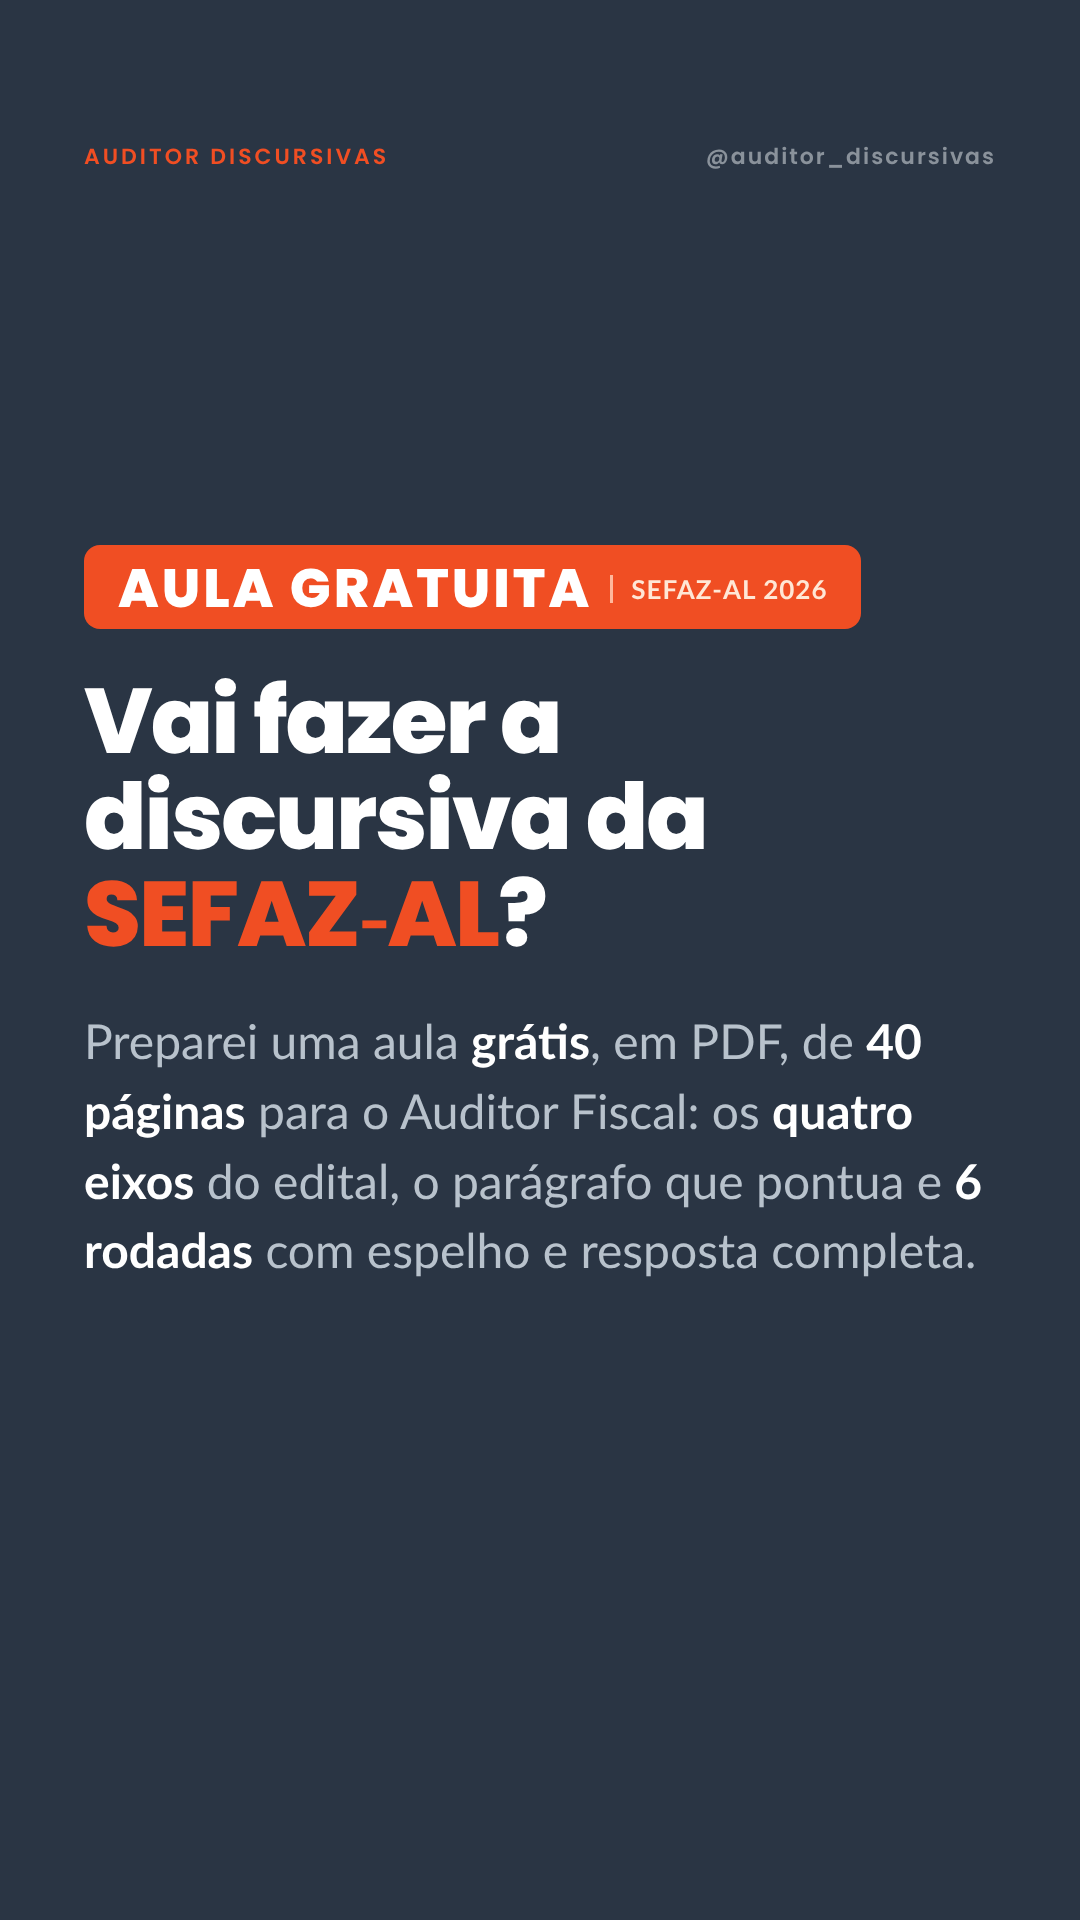
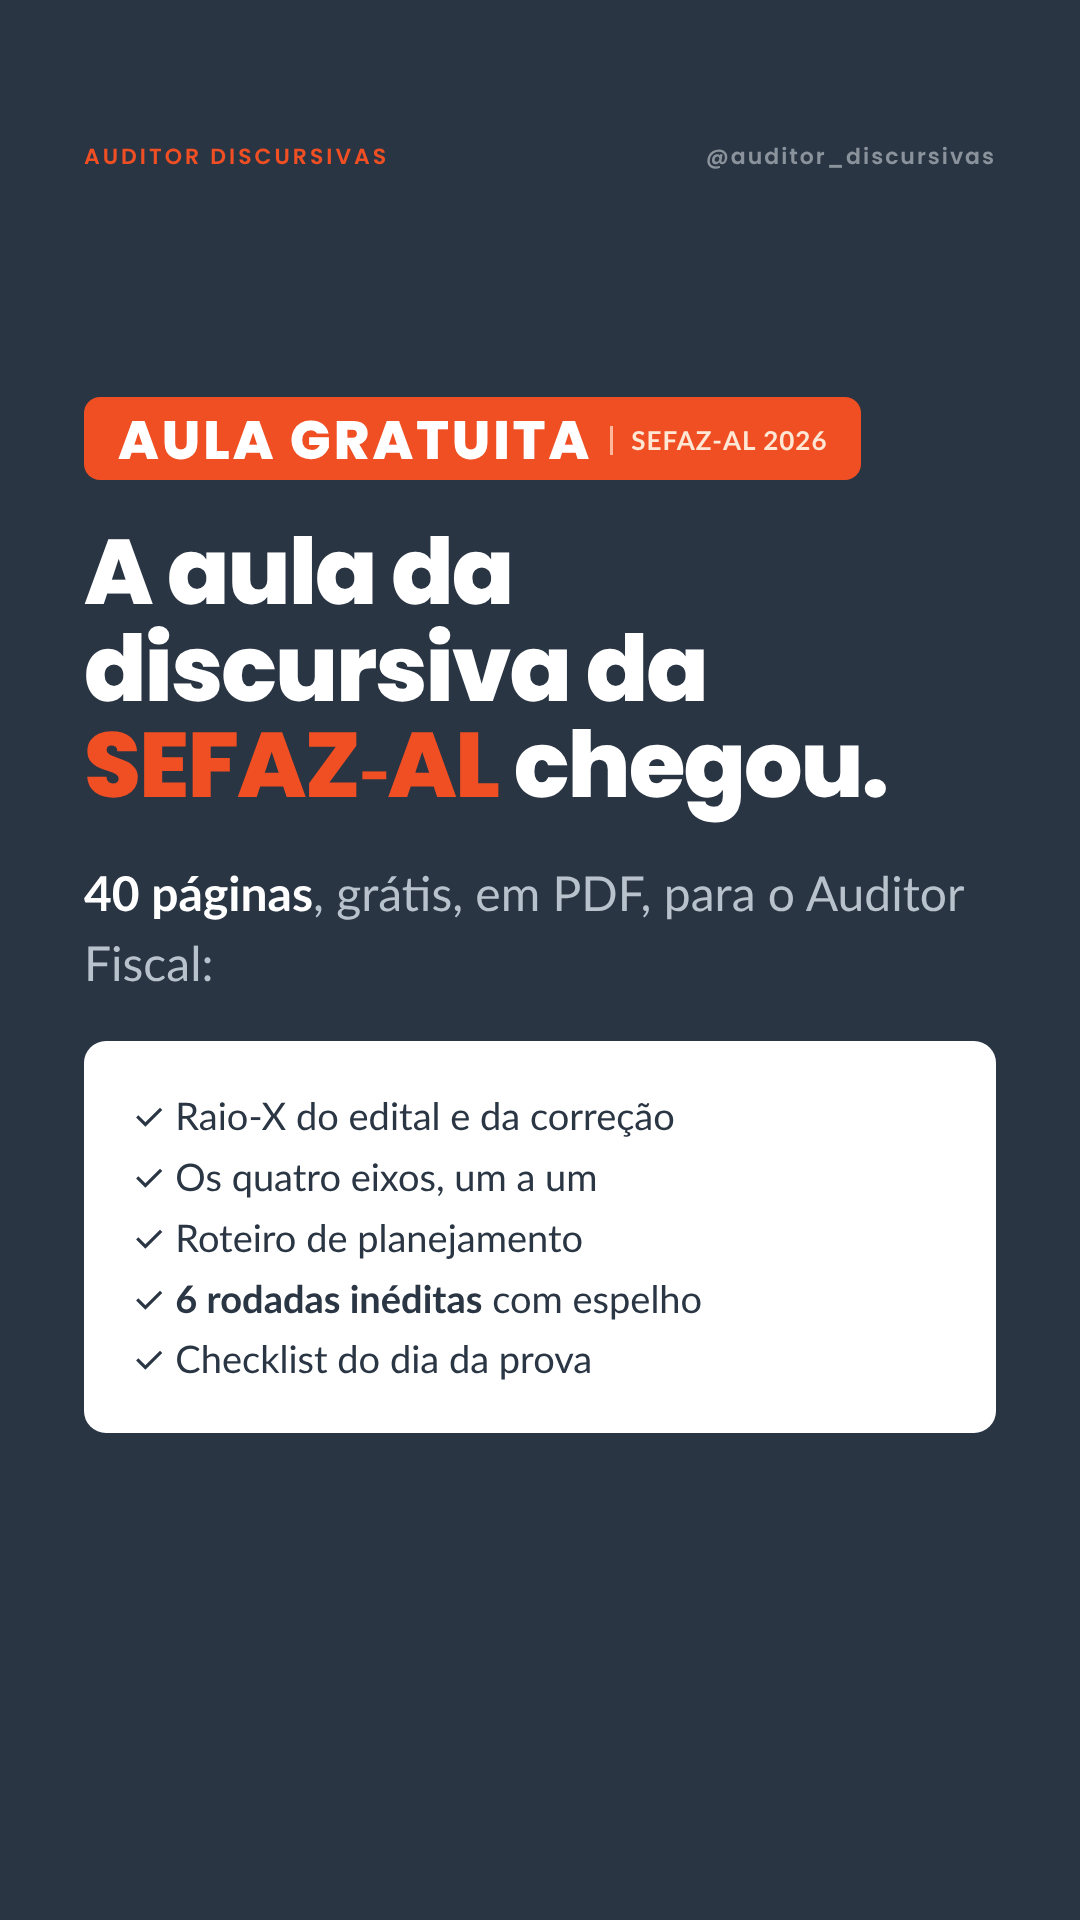
SEFAZ-AL: stories focados na aula
Claude-Session: https://claude.ai/code/session_01NnKHPQEUmMZq6kcsnTUKuD

Changed region(s): [[0.0611, 0.2812, 0.9472, 0.75], [0.0611, 0.1875, 0.7944, 0.25]]

diff --git a/fontes/campanha-sefazal/stories_sefazal.html b/fontes/campanha-sefazal/stories_sefazal.html
@@ -91,22 +91,23 @@ body{background:#E8EBEE;font-family:'Lato',sans-serif;padding:40px;display:flex;
 <div class="story" data-n="st01">
   <div class="st-marca"><div class="marca">Auditor Discursivas</div><div class="contador">@auditor_discursivas</div></div>
   <div class="st-in"><div><span class="tag">Aula gratuita<small>SEFAZ-AL 2026</small></span></div>
-<div class="st-h">Vai fazer a discursiva da <em style="white-space:nowrap">SEFAZ&#8209;AL</em>?</div>
-<div class="st-p">Preparei uma aula <b>grátis</b>, em PDF, de <b>40 páginas</b> para o Auditor Fiscal: os <b>quatro eixos</b> do edital, o parágrafo que pontua e <b>6 rodadas</b> com espelho e resposta completa.</div></div>
+<div class="st-h">A aula da discursiva da <em style="white-space:nowrap">SEFAZ&#8209;AL</em> chegou.</div>
+<div class="st-p"><b>40 páginas</b>, grátis, em PDF, para o Auditor Fiscal:</div>
+<div class="st-box"><div class="r" style="margin-top:0;line-height:1.6">✓ Raio-X do edital e da correção<br>✓ Os quatro eixos, um a um<br>✓ Roteiro de planejamento<br>✓ <b>6 rodadas inéditas</b> com espelho<br>✓ Checklist do dia da prova</div></div></div>
 </div>
 <div class="story" data-n="st02">
+  <div class="st-marca"><div class="marca">Auditor Discursivas</div><div class="contador">@auditor_discursivas</div></div>
+  <div class="st-in"><div class="eyebrow">Como cada rodada funciona</div>
+<div class="st-h">Você escreve. A aula <em>corrige</em>.</div>
+<div class="st-box"><div class="r" style="margin-top:0;line-height:1.6"><b>1.</b> Questão inédita, 60 min<br><b>2.</b> Orientação de solução<br><b>3.</b> Padrão de resposta e espelho<br><b>4.</b> Resposta definitiva, linha a linha<br><b>5.</b> Armadilhas e dicas</div></div>
+<div class="st-p">Seis rodadas nos quatro eixos: <b>dados, auditoria fiscal, finanças e reforma tributária</b>.</div></div>
+</div>
+<div class="story" data-n="st03">
   <div class="st-marca"><div class="marca">Auditor Discursivas</div><div class="contador">@auditor_discursivas</div></div>
   <div class="st-in"><div class="st-h">É só mandar no <em>direct</em></div>
 <div><span class="kw">SEFAZAL</span></div>
 <div class="st-p">Manda <b>SEFAZAL</b> numa mensagem para o <b>@auditor_discursivas</b> e a <b>aula gratuita</b> chega na hora.</div>
 <div class="st-box"><div class="q">Prefere comentar?</div><div class="r">Comente <b>SEFAZAL</b> no post da aula da SEFAZ-AL que eu também te mando.</div></div></div>
-</div>
-<div class="story" data-n="st03">
-  <div class="st-marca"><div class="marca">Auditor Discursivas</div><div class="contador">@auditor_discursivas</div></div>
-  <div class="st-in"><div class="eyebrow">Você sabia?</div>
-<div class="st-h">Você faz a discursiva <em>sem saber</em> se passou.</div>
-<div class="st-p">A objetiva é em <b>20/12</b>, a discursiva em <b>10/01</b> e o resultado final da objetiva só sai em <b>05/02</b>. Quem treina discursiva desde já sai na frente.</div>
-<div class="st-box"><div class="q">Mande SEFAZAL no direct</div><div class="r">e receba grátis a aula com as 6 rodadas.</div></div></div>
 </div>
 </body>
 </html>

diff --git a/fontes/campanha-sefazal/gerar.py b/fontes/campanha-sefazal/gerar.py
@@ -61,17 +61,18 @@ c += '</body>\n</html>\n'
 (OUT / 'carrossel_sefazal.html').write_text(c, encoding='utf-8')
 
 st = head('Campanha SEFAZ-AL 2026 — stories')
-st += story(1, '''<div><span class="tag">Aula gratuita<small>SEFAZ-AL 2026</small></span></div>
-<div class="st-h">Vai fazer a discursiva da <em style="white-space:nowrap">SEFAZ&#8209;AL</em>?</div>
-<div class="st-p">Preparei uma aula <b>grátis</b>, em PDF, de <b>40 páginas</b> para o Auditor Fiscal: os <b>quatro eixos</b> do edital, o parágrafo que pontua e <b>6 rodadas</b> com espelho e resposta completa.</div>''')
-st += story(2, '''<div class="st-h">É só mandar no <em>direct</em></div>
+st += story(1, """<div><span class="tag">Aula gratuita<small>SEFAZ-AL 2026</small></span></div>
+<div class="st-h">A aula da discursiva da <em style="white-space:nowrap">SEFAZ&#8209;AL</em> chegou.</div>
+<div class="st-p"><b>40 páginas</b>, grátis, em PDF, para o Auditor Fiscal:</div>
+<div class="st-box"><div class="r" style="margin-top:0;line-height:1.6">✓ Raio-X do edital e da correção<br>✓ Os quatro eixos, um a um<br>✓ Roteiro de planejamento<br>✓ <b>6 rodadas inéditas</b> com espelho<br>✓ Checklist do dia da prova</div></div>""")
+st += story(2, """<div class="eyebrow">Como cada rodada funciona</div>
+<div class="st-h">Você escreve. A aula <em>corrige</em>.</div>
+<div class="st-box"><div class="r" style="margin-top:0;line-height:1.6"><b>1.</b> Questão inédita, 60 min<br><b>2.</b> Orientação de solução<br><b>3.</b> Padrão de resposta e espelho<br><b>4.</b> Resposta definitiva, linha a linha<br><b>5.</b> Armadilhas e dicas</div></div>
+<div class="st-p">Seis rodadas nos quatro eixos: <b>dados, auditoria fiscal, finanças e reforma tributária</b>.</div>""")
+st += story(3, """<div class="st-h">É só mandar no <em>direct</em></div>
 <div><span class="kw">SEFAZAL</span></div>
 <div class="st-p">Manda <b>SEFAZAL</b> numa mensagem para o <b>@auditor_discursivas</b> e a <b>aula gratuita</b> chega na hora.</div>
-<div class="st-box"><div class="q">Prefere comentar?</div><div class="r">Comente <b>SEFAZAL</b> no post da aula da SEFAZ-AL que eu também te mando.</div></div>''')
-st += story(3, '''<div class="eyebrow">Você sabia?</div>
-<div class="st-h">Você faz a discursiva <em>sem saber</em> se passou.</div>
-<div class="st-p">A objetiva é em <b>20/12</b>, a discursiva em <b>10/01</b> e o resultado final da objetiva só sai em <b>05/02</b>. Quem treina discursiva desde já sai na frente.</div>
-<div class="st-box"><div class="q">Mande SEFAZAL no direct</div><div class="r">e receba grátis a aula com as 6 rodadas.</div></div>''')
+<div class="st-box"><div class="q">Prefere comentar?</div><div class="r">Comente <b>SEFAZAL</b> no post da aula da SEFAZ-AL que eu também te mando.</div></div>""")
 st += '</body>\n</html>\n'
 (OUT / 'stories_sefazal.html').write_text(st, encoding='utf-8')
 print('ok')
